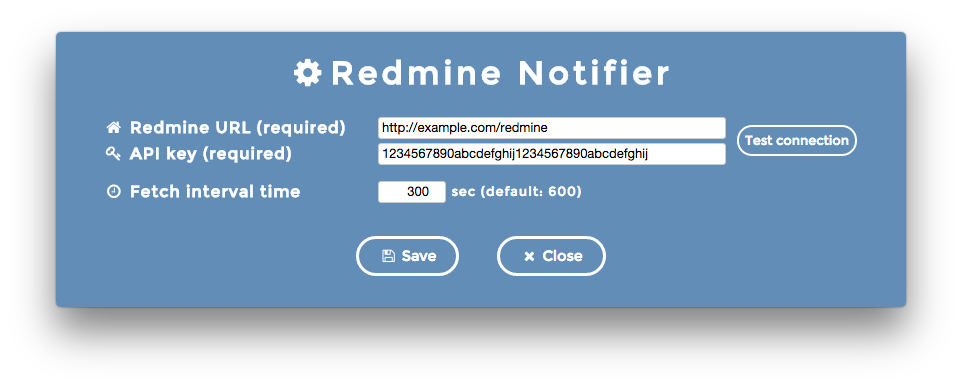
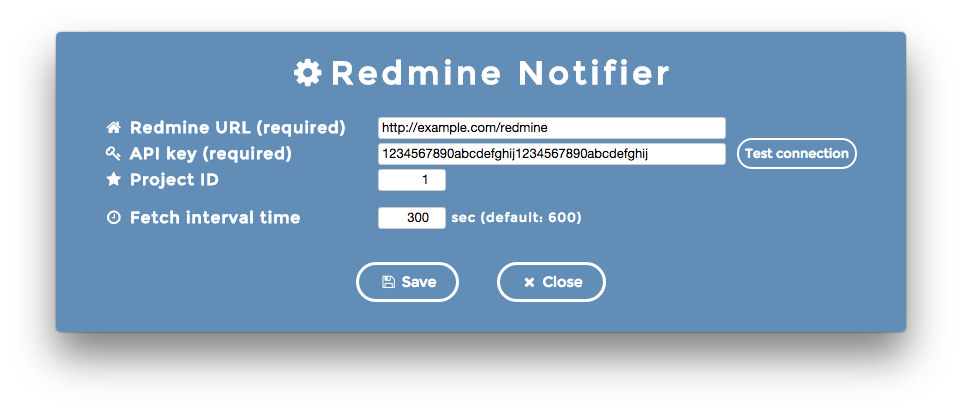
Add `Project ID` setting

diff --git a/app/index.js b/app/index.js
@@ -2,7 +2,6 @@
   'use strict';
 
   const DEFAULT_FETCH_INTERVAL_SEC = 600;
-  const STATIC_REQUEST_PARAMS = '&sort=updated_on:desc';
   const NOTIE_DISPLAY_SEC = 1.5;
   const COLOR_ICON_FILENAME_64 = 'redmine_icon_color_64.png';
 
@@ -65,6 +64,7 @@
   RedmineNotifier.prototype.displaySettings = function() {
     document.getElementById('url').value = this._settings.url;
     document.getElementById('api-key').value = this._settings.apiKey;
+    document.getElementById('project-id').value = this._settings.projectId;
     document.getElementById('fetch-interval-sec').value = this._settings.fetchIntervalSec;
   };
 
@@ -75,6 +75,7 @@
     return {
       url: document.getElementById('url').value,
       apiKey: document.getElementById('api-key').value,
+      projectId: document.getElementById('project-id').value,
       fetchIntervalSec: document.getElementById('fetch-interval-sec').value
     };
   };
@@ -93,6 +94,7 @@
     this._settings = {
       url: localStorage.getItem('url'),
       apiKey: localStorage.getItem('apiKey'),
+      projectId: localStorage.getItem('projectId'),
       fetchIntervalSec: localStorage.getItem('fetchIntervalSec')
     };
   };
@@ -111,6 +113,7 @@
   RedmineNotifier.prototype.updateSettings = function() {
     localStorage.setItem('url', this._settings.url);
     localStorage.setItem('apiKey', this._settings.apiKey);
+    localStorage.setItem('projectId', this._settings.projectId);
     localStorage.setItem('fetchIntervalSec', this._settings.fetchIntervalSec);
   };
 
@@ -146,7 +149,6 @@
   RedmineNotifier.prototype.fetch = function() {
     var _this = this;
     var xhr = new XMLHttpRequest();
-    var requestParams = '?updated_on=%3E%3D' + this._lastExecutionTime + STATIC_REQUEST_PARAMS;
 
     xhr.onreadystatechange = function() {
       if (xhr.readyState === 4 && xhr.status === 200) {
@@ -154,7 +156,7 @@
       }
     };
 
-    xhr.open('GET', this._settings.url + '/issues.json' + requestParams);
+    xhr.open('GET', this._settings.url + '/issues.json' + this.getRequestParams(this._settings.projectId));
     xhr.setRequestHeader('X-Redmine-API-Key', this._settings.apiKey);
     xhr.send();
 
@@ -167,7 +169,6 @@
   RedmineNotifier.prototype.testConnection = function() {
     var xhr = new XMLHttpRequest();
     var pageSettings = this.getPageSettings();
-    var requestParams = '?updated_on=%3E%3D' + this._lastExecutionTime + STATIC_REQUEST_PARAMS;
 
     xhr.onreadystatechange = function() {
       var style = 3;
@@ -183,9 +184,27 @@
       }
     };
 
-    xhr.open('GET', pageSettings.url + '/issues.json' + requestParams);
+    xhr.open('GET', pageSettings.url + '/issues.json' + this.getRequestParams(pageSettings.projectId));
     xhr.setRequestHeader('X-Redmine-API-Key', pageSettings.apiKey);
     xhr.send();
+  };
+
+  /**
+   * Get the request parameters.
+   * @param {string} projectId - Project ID (a numeric value, not a project identifier).
+   * @return {string} Request parameters.
+   */
+  RedmineNotifier.prototype.getRequestParams = function(projectId) {
+    var params = [
+      'updated_on=%3E%3D' + this._lastExecutionTime,
+      'sort=updated_on:desc'
+    ];
+
+    if (projectId !== '') {
+      params.unshift('project_id=' + projectId);
+    }
+
+    return '?' + params.join('&');
   };
 
   /**

diff --git a/app/index.html b/app/index.html
@@ -17,7 +17,7 @@
             Redmine URL (required)
           </th>
           <td class="setting-redmine"><input type="text" id="url" required></td>
-          <td rowspan="2">
+          <td rowspan="3">
             <button id="test-connection-button" tabindex="-1">
               Test connection
             </button>
@@ -29,6 +29,13 @@
             API key (required)
           </th>
           <td class="setting-redmine"><input type="text" id="api-key" required></td>
+        </tr>
+        <tr>
+          <th>
+            <i class="fa fa-star fa-fw"></i>
+            Project ID
+          </th>
+          <td class="setting-number"><input type="number" id="project-id" min="1" pattern="^\d+$"></td>
         </tr>
       </table>
 

diff --git a/app/main.js b/app/main.js
@@ -72,7 +72,7 @@
 
     win = new BrowserWindow({
       width: 850,
-      height: 275,
+      height: 300,
       show: false,
       frame: false,
       resizable: false
